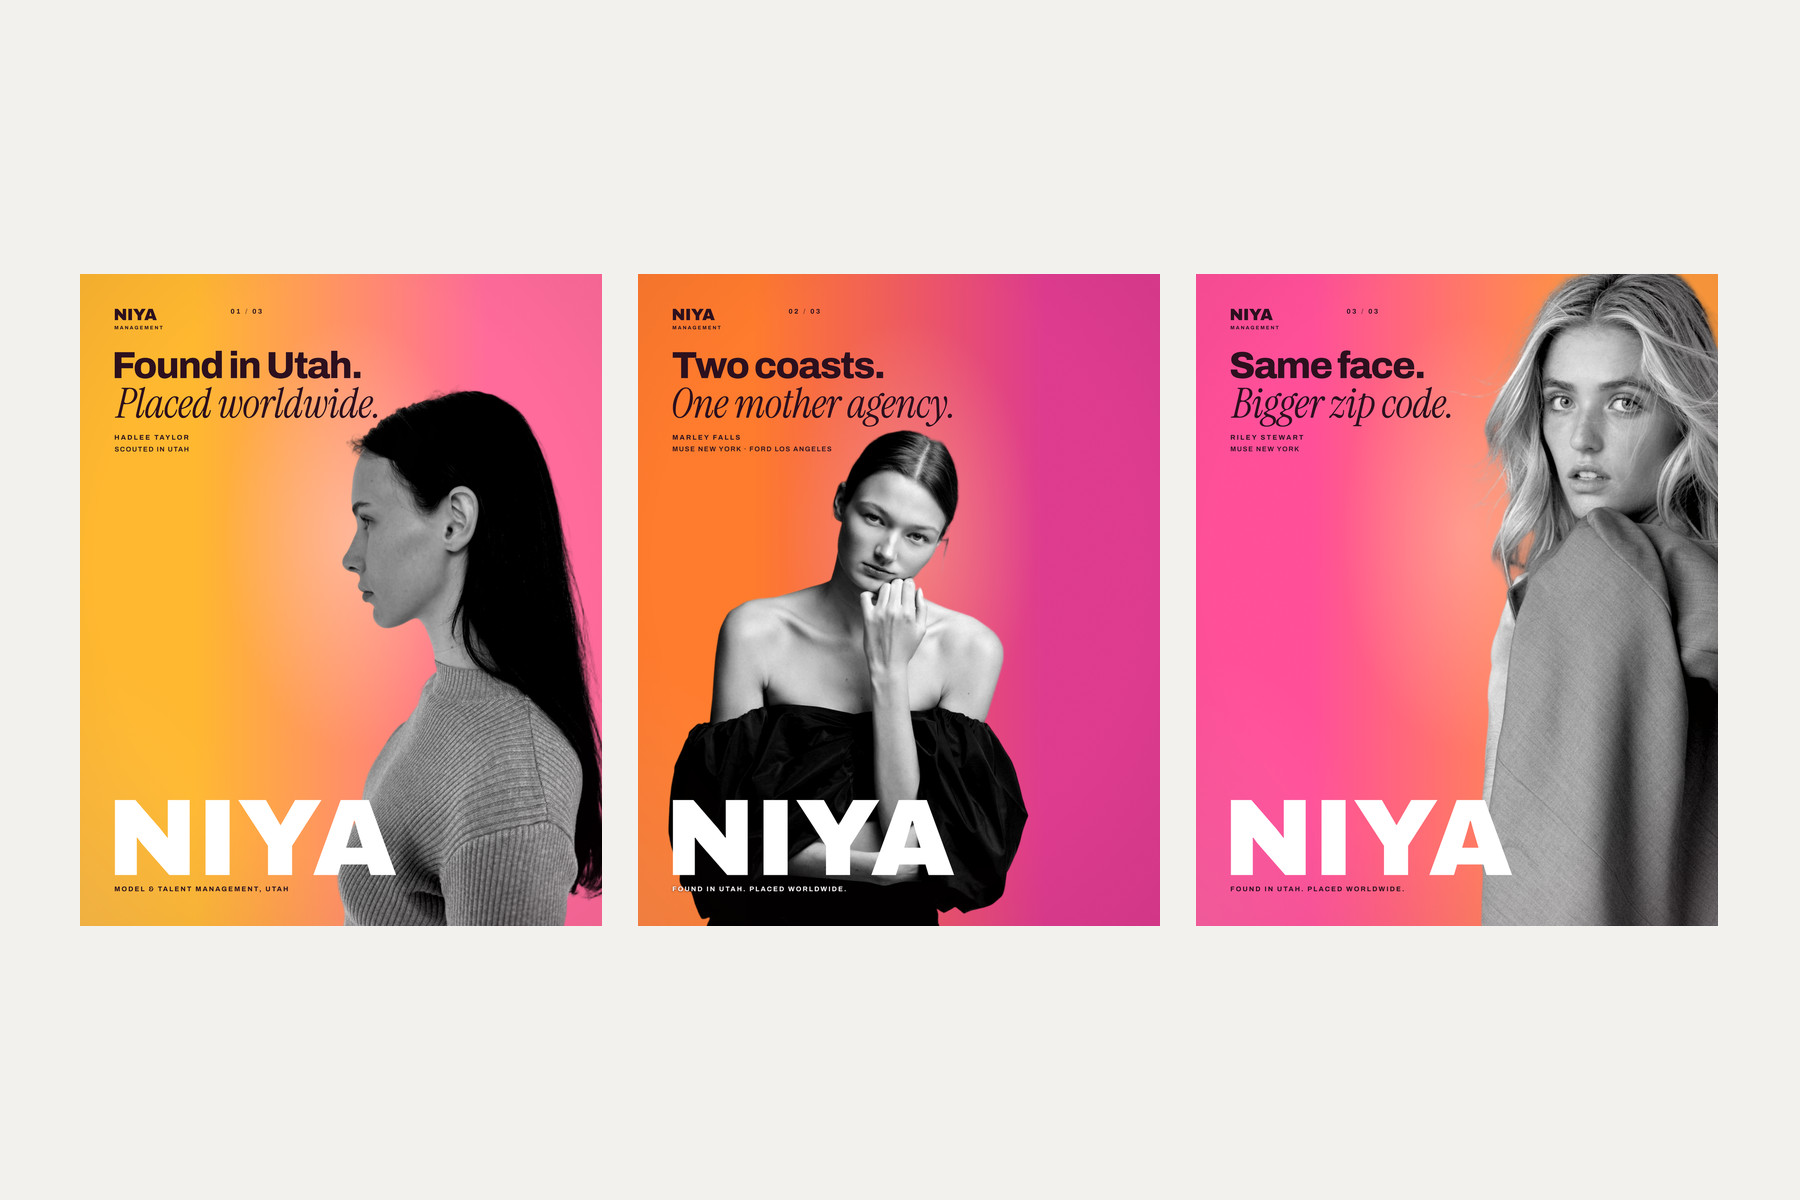
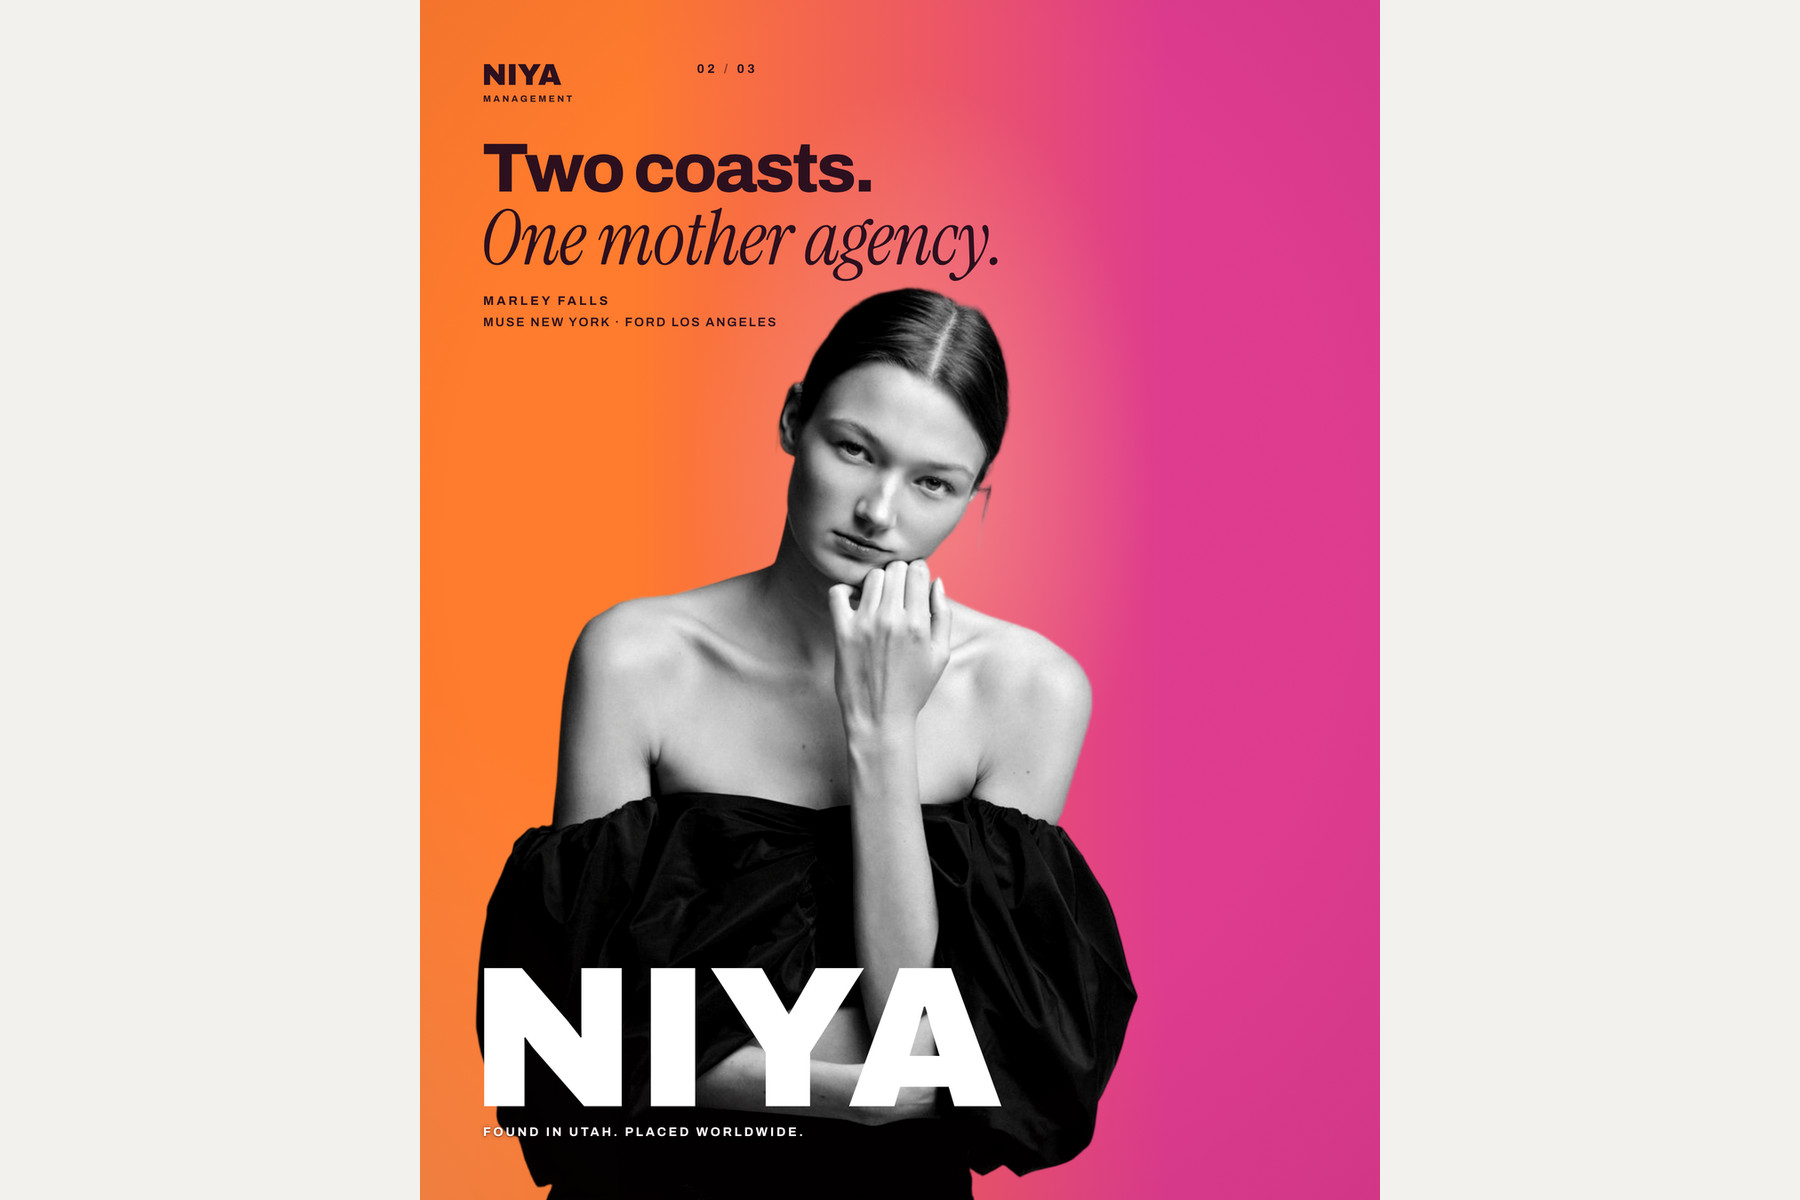
Lead the NIYA series with Marley’s ad
Use Marley as the home-grid cover and og:image, and show the project page in this order: Marley, Hadlee, Riley.

diff --git a/work/niya-model-management.html b/work/niya-model-management.html
@@ -36,8 +36,8 @@
   <p class="lede">A three-ad series for a Utah mother agency.</p>
   <p class="body">Marley Falls and Riley Stewart both started at NIYA. Marley is now with MUSE New York and Ford&nbsp;LA, and Riley is with MUSE New York.</p>
   <div class="stills stills-series">
-    <img src="../img/niya-model-management/hadlee-found-in-utah.jpg" srcset="../img/niya-model-management/hadlee-found-in-utah-800.jpg 800w, ../img/niya-model-management/hadlee-found-in-utah.jpg 1080w" sizes="(max-width: 760px) 88vw, 22rem" width="1080" height="1350" alt="NIYA — Found in Utah. Placed worldwide.">
-    <img src="../img/niya-model-management/marley-two-coasts.jpg" srcset="../img/niya-model-management/marley-two-coasts-800.jpg 800w, ../img/niya-model-management/marley-two-coasts.jpg 1080w" sizes="(max-width: 760px) 88vw, 22rem" width="1080" height="1350" loading="lazy" alt="NIYA — Two coasts. One mother agency.">
+    <img src="../img/niya-model-management/marley-two-coasts.jpg" srcset="../img/niya-model-management/marley-two-coasts-800.jpg 800w, ../img/niya-model-management/marley-two-coasts.jpg 1080w" sizes="(max-width: 760px) 88vw, 22rem" width="1080" height="1350" alt="NIYA — Two coasts. One mother agency.">
+    <img src="../img/niya-model-management/hadlee-found-in-utah.jpg" srcset="../img/niya-model-management/hadlee-found-in-utah-800.jpg 800w, ../img/niya-model-management/hadlee-found-in-utah.jpg 1080w" sizes="(max-width: 760px) 88vw, 22rem" width="1080" height="1350" loading="lazy" alt="NIYA — Found in Utah. Placed worldwide.">
     <img src="../img/niya-model-management/riley-bigger-zip-code.jpg" srcset="../img/niya-model-management/riley-bigger-zip-code-800.jpg 800w, ../img/niya-model-management/riley-bigger-zip-code.jpg 1080w" sizes="(max-width: 760px) 88vw, 22rem" width="1080" height="1350" loading="lazy" alt="NIYA — Same face. Bigger zip code.">
   </div>
 </article>

diff --git a/index.html b/index.html
@@ -65,7 +65,7 @@
       </div>
     </a>
     <a class="card" href="work/niya-model-management.html">
-      <div class="thumb"><img src="img/niya-model-management/cover.jpg" srcset="img/niya-model-management/cover-800.jpg 800w, img/niya-model-management/cover.jpg 1800w" sizes="(max-width: 760px) 88vw, 44vw" width="1800" height="1200" alt="NIYA Model Management LinkedIn series — Found in Utah. Placed worldwide."></div>
+      <div class="thumb"><img src="img/niya-model-management/cover.jpg" srcset="img/niya-model-management/cover-800.jpg 800w, img/niya-model-management/cover.jpg 1800w" sizes="(max-width: 760px) 88vw, 44vw" width="1800" height="1200" alt="NIYA — Two coasts. One mother agency."></div>
       <div class="meta">
         <div>
           <strong>NIYA Model Management</strong>
